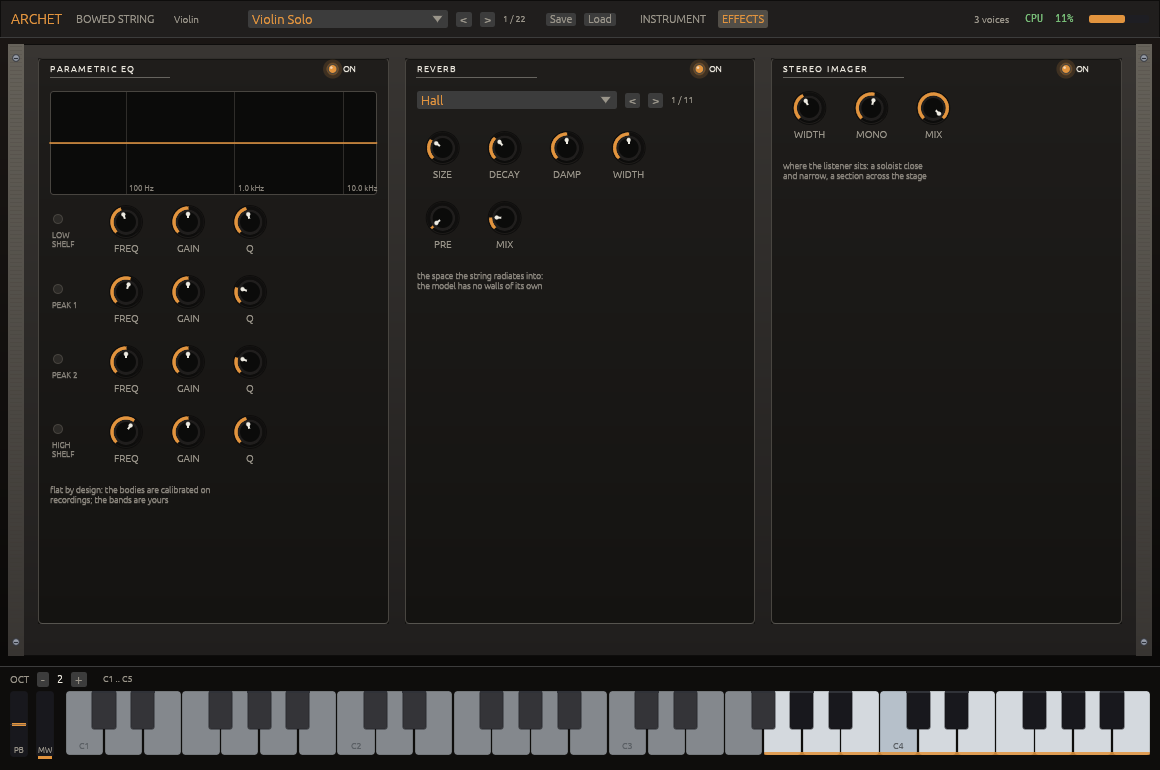
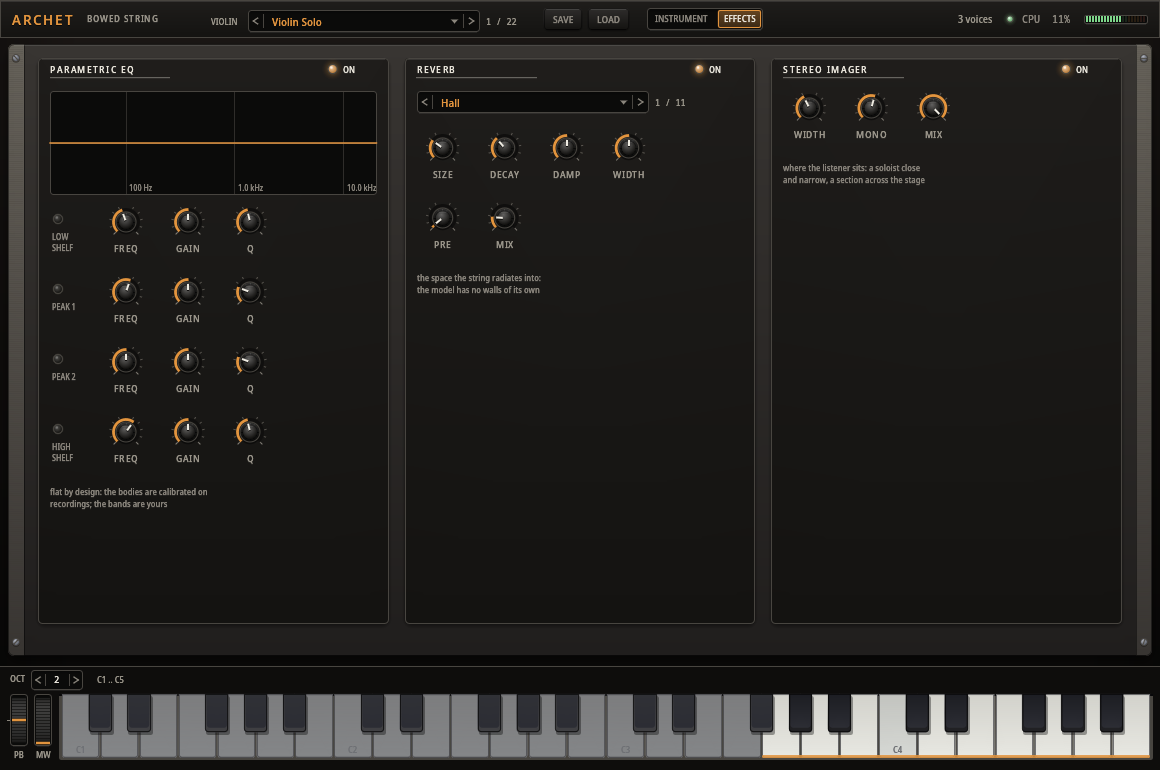
feat: the editor draws its case with the SDK's finish
The case, its brushed cheeks and the backdrop are the SDK's, tinted by
the palette, and every plate, knob, lamp, switch and the keyboard take
the lit vocabulary and the house faces.

diff --git a/crates/archet-ui/src/theme.rs b/crates/archet-ui/src/theme.rs
@@ -11,7 +11,7 @@
 //! screw, the printed and tracked type, is `phonix_ui::theme`, reading the
 //! palette installed here.
 
-use egui::{Color32, CornerRadius, Pos2, Rect, Stroke, StrokeKind, Ui};
+use egui::{Color32, Pos2, Rect, Stroke, Ui};
 use phonix_ui::theme::Palette;
 
 use crate::colors::*;
@@ -41,6 +41,15 @@ pub const PALETTE: Palette = Palette {
     silk_dim: PLATE_SILK_DIM,
     pointer: Color32::from_rgb(238, 235, 226),
     pointer_shadow: Color32::from_rgb(16, 15, 14),
+    light_edge: Color32::from_rgba_premultiplied(26, 26, 26, 26),
+    backdrop_top: Color32::from_rgb(26, 22, 20),
+    backdrop_bottom: Color32::from_rgb(10, 9, 8),
+    case_top: PANEL_TOP,
+    case_bottom: PANEL_BOTTOM,
+    cheek_top: CHEEK_TOP,
+    cheek_bottom: CHEEK_BOTTOM,
+    cheek_grain: CHEEK_GRAIN,
+    ..Palette::DEFAULT
 };
 
 /// Installs the palette and tunes egui's own widgets to it.
@@ -54,26 +63,7 @@ pub fn tracked(ui: &Ui, left: Pos2, text: &str, font: egui::FontId, ink: Color32
     phonix_ui::theme::tracked_text(ui, left, text, font, ink, tracking, phonix_ui::theme::Relief::Printed)
 }
 
-/// The anodised panel: a gradient with a soft sheen across the top, which
-/// is what a brushed sheet does under a room light.
-pub fn panel(ui: &Ui, rect: Rect, radius: impl Into<CornerRadius> + Copy) {
-    gradient_v(ui, rect, PANEL_TOP, PANEL_BOTTOM);
-    ui.painter().rect_stroke(rect, radius, Stroke::new(1.0_f32, PANEL_EDGE), StrokeKind::Inside);
-}
 
-/// The machined cheek at each end of the extrusion.
-pub fn cheek(ui: &Ui, rect: Rect, radius: impl Into<CornerRadius> + Copy) {
-    let _ = radius;
-    gradient_v(ui, rect, CHEEK_TOP, CHEEK_BOTTOM);
-    let n = (rect.height() / 4.0) as usize;
-    for i in 0..n {
-        let y = rect.top() + i as f32 * 4.0 + 2.0;
-        ui.painter().line_segment(
-            [Pos2::new(rect.left() + 2.0, y), Pos2::new(rect.right() - 2.0, y)],
-            Stroke::new(1.0_f32, CHEEK_GRAIN),
-        );
-    }
-}
 
 /// A signal run between two parts of the panel: lit when what it carries
 /// is sounding, dark when it is not.

diff --git a/crates/archet-ui/src/machine.rs b/crates/archet-ui/src/machine.rs
@@ -12,24 +12,6 @@ use crate::colors::*;
 use crate::panel_geom as geom;
 use crate::theme;
 
-/// The extrusion the panel is set into: two machined cheeks and the
-/// anodised sheet between them. Returns the sheet.
-pub fn case(ui: &Ui, rect: Rect) -> Rect {
-    let cheek_w = 16.0;
-    theme::panel(ui, rect, 6.0);
-    let left = Rect::from_min_size(rect.min, Vec2::new(cheek_w, rect.height()));
-    let right = Rect::from_min_size(Pos2::new(rect.right() - cheek_w, rect.top()), Vec2::new(cheek_w, rect.height()));
-    theme::cheek(ui, left, 6.0);
-    theme::cheek(ui, right, 6.0);
-    for y in [rect.top() + 14.0, rect.bottom() - 14.0] {
-        theme::screw(ui, Pos2::new(left.center().x, y), 3.0);
-        theme::screw(ui, Pos2::new(right.center().x, y), 3.0);
-    }
-    Rect::from_min_max(
-        Pos2::new(left.right(), rect.top()),
-        Pos2::new(right.left(), rect.bottom()),
-    )
-}
 
 /// A row of exclusive choices in a slot cut into the plate.
 pub fn switch(ui: &mut Ui, rect: Rect, labels: &[&str], sel: usize, tint: Color32, salt: &str) -> Option<usize> {

diff --git a/crates/archet-ui/src/app.rs b/crates/archet-ui/src/app.rs
@@ -199,9 +199,9 @@ impl ArchetApp {
             .frame(egui::Frame::NONE.fill(PANEL_EDGE))
             .show_inside(ui, |ui| {
                 let full = ui.max_rect();
-                theme::gradient_v(ui, full, Color32::from_rgb(26, 22, 20), Color32::from_rgb(10, 9, 8));
+                phonix_ui::theme::backdrop(ui, full);
                 let case = Rect::from_min_max(full.min + Vec2::new(8.0, 6.0), full.max - Vec2::new(8.0, 10.0));
-                let panel = machine::case(ui, case);
+                let panel = phonix_ui::theme::case(ui, case);
                 if self.tab == 1 {
                     // The effects take the whole case: three effects want
                     // more than a tier could give.
